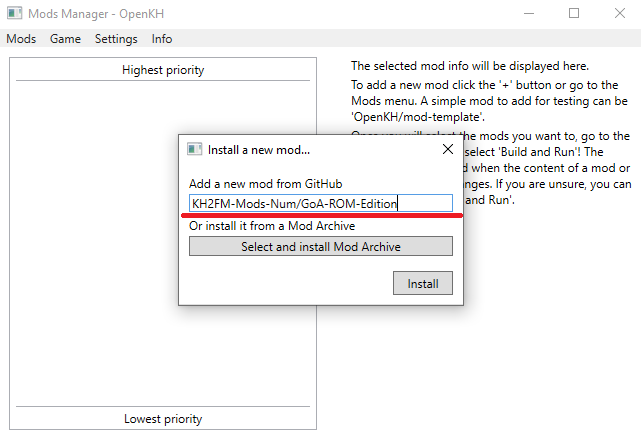
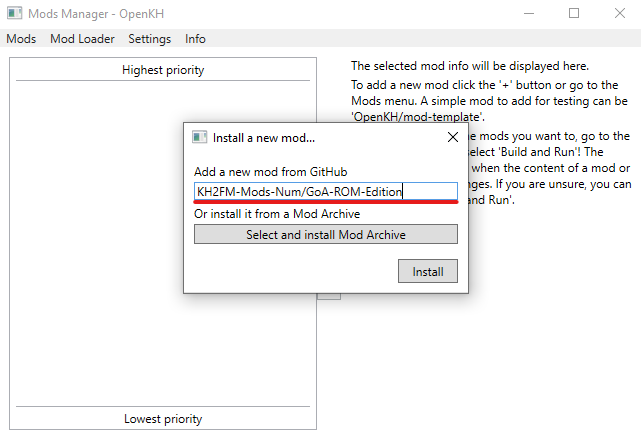
OpenKH UI Update
Updated Guide and Images to Reflect OpenKh Update

diff --git a/docs/setup/Panacea-ModLoader/index.md b/docs/setup/Panacea-ModLoader/index.md
@@ -31,16 +31,15 @@
 
 ![Panacea Wizard Window](../images/Panacea-ModLoader/Panacea%20Install%20Window.png)
 
-5. If you want Mod Manager to bypass the Epic Games launcher check the **"Bypass the launcher"** check box. YOU HAVE TO RUN KH2 THROUGH THE MOD MANAGER USING THE "**RUN"** COMMAND IF YOU CHOOSE THIS OPTION. YOU CANNOT RUN KH2 THROUGH THE REGULAR LAUNCHER WHILE THIS OPTION IS ENABLED.
-	* *You will need to input your Epic Games user id, which can be found using the link below the text box*
+5. OpenKH can launch KH2 directly from the Epic Games Store Launcher. This option can save you time and a few clicks whenever you want to run the game after changing your mods or seed. It's recommended to enable this but is not required.
 
-![Bypass Launcher](../images/Panacea-ModLoader/Bypass%20Launcher.png)
+![Launch Via Epic Games](../images/Panacea-ModLoader/Luanch%20Via%20Epic%20Games%20Option.png)
 
-6. Keep the extraction folder location as defaulted by the wizard, and click on the **"extract game data"** button. You will need to wait a few minutes for the process to complete.
+6. Keep the extraction folder location as defaulted by the wizard, and click on the **"extract game data"** button. You will need to wait a few minutes for the process to complete. The game extraction totals to about 23GB so be sure you have room on your drive for it.
 
 ![Extraction Window](../images/Panacea-ModLoader/Extraction%20Window.png)
 
-## Garden of Assemblage Mod:
+## Garden of Assemblage Mod Installation:
 1. Click **"Mods"** in the top left
 
 ![Install New Mod](../images/Panacea-ModLoader/Install%20New%20Mod.png)
@@ -54,11 +53,12 @@
 
 ![Enable GoA ROM](../images/Panacea-ModLoader/Enable_GoA_ROM.png)
 
-4. Then click **"Game"** and **"Build"**, then **"Build Only"**
+4. Then click **"Mod Loader"** then **"Build Only"**
+* *If you enabled "Launch via Epic Games" in setup wizard, you can also choose to **"Build and Run"** here. This option will build your mod files and then immediately run the game for you.*
 
 ![Build Only](../images/Panacea-ModLoader/Build%20Only.png)
 
-* *Note: Every time you add a new mod to the list you will need to **"Build"** again, or it wont show up in game*
+* *Note: Newly enabled mods won't show up in game unless you **"Build"** after enabling them*
 
 ## Lua Backend Installation:
 1. Open the seed Generator Program `KH2 Randomizer.exe`
@@ -78,6 +78,8 @@
 ## Installing a new seed to play:
 1. Choose your seed settings in the generator window and then click on **"Generate Seed"** in the bottom right.
 
+![Generate Seed](../images/Panacea-ModLoader/Generate%20Seed.png)
+
 *If you choose settings that may not act the same between the PCSX2 and PC version, the button will separate between PC and PCSX2, be sure to click the right one if it does so.*
 
 2. This will open up a window to save the seed as a zip file. Save it anywhere that works for you (I like to place it in the same folder as the generator)
@@ -85,7 +87,7 @@
 4. This time click on **"Select and Install Mod Archive"**, navigate to your new seed zip file and click **"Open"**
 5. Be sure to click on the check box next to the seed, then click on **"Build"** and **"Build Only"** to enable the mod in game. Note the 4 buttons to the right of the mod list. The First button lets you move a mod up the list, the second moves them down the list. The Green '+' icon is a shortcut to install a new mod, while the Red "-" icon is a shortcut to deleting a mod.
 
-![Install New Seed](../images/Panacea-ModLoader/Install%20New%20Seed.gif)
+![Install New Seed](../images/Panacea-ModLoader/Install%20New%20Seed-Updated.gif)
 
 ### *Note: It is very important that the seed is always ABOVE the GoA ROM mod in the list. The Randomizer will not work otherwise.*
 
@@ -96,12 +98,12 @@
 *  **[KH2 Rando Tracker](https://github.com/Dee-Ayy/KH2Tracker/releases/tag/v1.6.8)** - Not an OpenKH mod but instead a full fledged automated tracker program for the Important Checks in game. Checkout [Hint Systems](https://kh2rando.com/hints) for info about different ways to play Rando!
 
 
-# *You are now ready to play a KH2 Rando Seed! Run the game from the epic games launcher and have fun!*
+# *You are now ready to play the KH2 Randomizer!*
 
 __Technical And Stability Notes__
 1. Recommended to set fps limit to **60fps**.
 2. Recommended to run game in windows/borderless windowed mode. Fullscreen is stable but the game can crash if you alt-tab out.
 3. Overlays that hook onto the game process (Steam, RivaTuner, Nvidia Overlay, etc) and recording programs (Obs, Streamlabs, Xsplit) seem to decrease stability when playing rando. It's recommended to disable them, or in the case of recording programs use window/desktop capture, in order to minimize your chances of a crash.
 4. GoA ROM and the Seed Generator will always be compatible with one another. Any other mods beyond that should be compatible as long as they don't overlap on changes. Mods at the top of the list will overwrite mods below them if there's any overlapping files. Feel free to ask in the [Community Discord](https://discord.gg/vKhdwNAmzE) if you aren't sure.
-5. Consistent crashes are rare but possible, try installing a new seed if you can't load into a specific room, and please report your issue in our Discord server.
+5. Consistent crashes are rare but possible, try installing a new seed or even restarting your computer if you can't load into a specific room, and please report your issue in our Discord server.
 6. Boss/Enemy Rando is amazing but still a work in progress. Please report any bugs/softlocks/out-of-bounds glitches you encounter to the coresponding Google Form listed in the #bug-reports channels of our Discord. 
